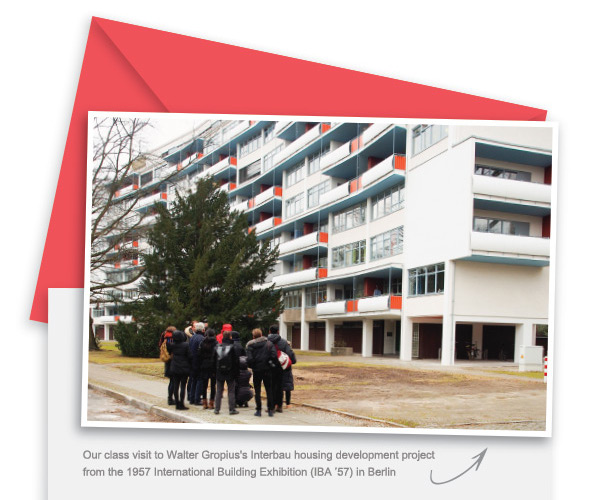
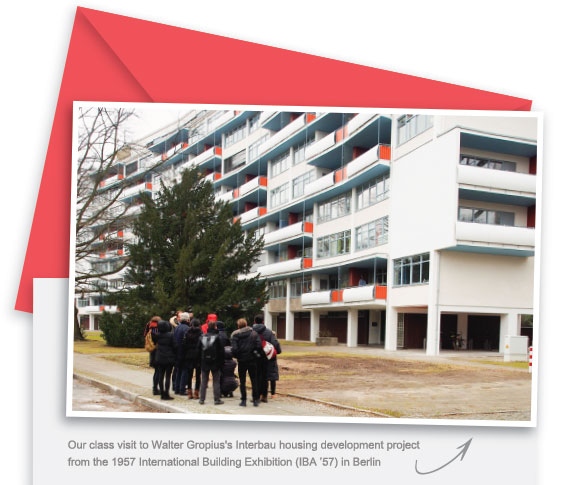
adjust widths, insert background images

diff --git a/index.html b/index.html
@@ -26,7 +26,7 @@
     .appleFooter a {color:#999999; text-decoration: none;}
 
     /* MOBILE STYLES */
-    @media screen and (max-width: 525px) {
+    @media screen and (max-width: 524px) {
 
         /* ALLOWS FOR FLUID TABLES */
         table[class="wrapper"]{
@@ -68,12 +68,10 @@
 
         td[class="padding-copy"]{
           padding: 10px 5% 10px 5% !important;
-          text-align: center;
         }
 
         td[class="padding-meta"]{
           padding: 30px 5% 0px 5% !important;
-          text-align: center;
         }
 
         td[class="no-pad"]{
@@ -106,7 +104,7 @@
             width:80% !important;
             padding: 15px !important;
             border: 0 !important;
-            font-size: 16px !important;
+            font-size: 15px !important;
         }
 
     }
@@ -116,24 +114,24 @@
 <body style="margin: 0; padding: 0;">
 
 <!-- LETTER -->
-<table border="0" cellpadding="0" cellspacing="0" width="870" style="margin: 0 auto; border: 1px solid #DDDDDD;">
+<table border="0" cellpadding="0" cellspacing="0" width="570" style="margin: 0 auto 20px auto;">
     <tr>
-        <td align="center" style="padding: 70px 15px 70px 15px;" class="section-padding">
-            <table border="0" cellpadding="0" cellspacing="0" width="500">
+        <td align="center" class="section-padding">
+            <table border="0" cellpadding="0" cellspacing="0">
                 <tr>
                     <td>
-                        <table width="780" border="0" cellspacing="0" cellpadding="0">
+                        <table width="570" border="0" cellspacing="0" cellpadding="0">
                           	<tr>
                               <td>
-                                  <img src="img/header.jpg" width="600" height="500" border="0" alt="Our class visit to Walter Gropius's Interbau housing development project from the 1957 International Building Exhibition (IBA ’57) in Berlin" style="display: block; padding: 0; color: #666666; text-decoration: none; font-family: Helvetica, arial, sans-serif; font-size: 16px; width: 600px; height: 500px;" class="img-max">
+                                  <img src="img/header.jpg" width="570" height="485" border="0" alt="Walter Gropius's Interbau housing development project in Berlin" style="display: block; padding: 0; color: #666666; text-decoration: none; font-family: Helvetica, arial, sans-serif; font-size: 15px; width: 570px; height: 485px;" class="img-max">
                               </td>
                             </tr>
                             <tr>
                                 <td>
                                     <!-- COPY -->
-                                    <table width="100%" border="0" cellspacing="0" cellpadding="0" bgcolor="#EEEEEE" style="border: 1px solid #DDDDDD">
+                                    <table width="100%" border="0" cellspacing="0" cellpadding="0" bgcolor="#EEEEEE" style="background-image: url('img/silver-bg.png'); background-repeat: repeat-y">
                                         <tr>
-                                            <td align="left" style="padding: 60px 60px 60px 60px; font-size: 16px; line-height: 28px; font-family: Helvetica, Arial, sans-serif; color: #666666;" class="padding-copy">
+                                            <td align="left" style="padding: 60px 60px 60px 60px; font-size: 15px; line-height: 26px; font-family: Helvetica, Arial, sans-serif; color: #666666;" class="padding-copy">
                                             	<p>Dear GSD Alumni,</p>
                                             	<p style="font-weight: bold">Greetings from Berlin!</p>
                                             	<p>This semester, nine classmates and I are participating in a studio
@@ -143,10 +141,10 @@
                                             </td>
                                         </tr>
                                         <tr>
-                                            <td align="right" style="padding: 60px 60px 60px 60px; font-size: 16px; line-height: 25px; font-family: Helvetica, Arial, sans-serif; color: #666666;" class="padding-copy">
-                                            	 <img src="img/soohoo-signature.jpg" width="400" height="112" border="0" alt="C. SooHoo signature" style="display: block; padding: 0; color: #666666; text-decoration: none; font-family: Helvetica, arial, sans-serif; font-size: 16px; width: 400px; height: 112px;" class="img-max">
+                                            <td align="right" style="padding: 60px 60px 60px 60px; font-size: 15px; line-height: 24px; font-family: Helvetica, Arial, sans-serif; color: #666666;" class="padding-copy">
+                                            	 <img src="img/soohoo-signature.jpg" width="250" height="70" border="0" alt="C. SooHoo signature" style="display: block; padding: 0; color: #666666; text-decoration: none; font-family: Helvetica, arial, sans-serif; font-size: 15px; width: 250px; height: 70px;" class="img-max">
                                             	<p>Christopher SooHoo</p> 
-                                        		<p>March ‘16</p>
+                                        		<p>MArch ‘16</p>
                                             </td>
                                         </tr>
                                     </table>
@@ -155,25 +153,33 @@
                         </table>
                     </td>
                 </tr>
+                <tr>
+                	<td width="570" height="11" style="background-image: url('img/silver-bg-bottom.png'); background-repeat: no-repeat;">
+                	</td>
+                </tr>
             </table>
         </td>
     </tr>
 </table> <!-- end letter section -->
 
 <!-- CALL TO ACTION -->
-<table border="0" cellpadding="0" cellspacing="0" width="870" style="margin: 0 auto; border: 1px solid #DDDDDD;">
+<table border="0" cellpadding="0" cellspacing="0" width="570" style="margin: 0 auto 0 auto;">
     <tr>
-        <td align="center" style="padding: 70px 15px 70px 15px;" class="section-padding">
+        <td align="center" class="section-padding">
             <table border="0" cellpadding="0" cellspacing="0">
+            	<tr>
+            		<td width="570" height="11" style="background-image: url('img/pink-bg-top.png'); background-repeat: no-repeat;">
+            		</td>
+            	</tr>
                 <tr>
                     <td>
-                        <table width="780" bgcolor="#f0525a" border="0" cellspacing="0" cellpadding="0" style="border: 1px solid #DDDDDD;">
+                        <table width="570" bgcolor="#f0525a" border="0" cellspacing="0" cellpadding="0" style="background-image: url('img/pink-bg.png'); background-repeat: repeat-y">
                             <tr>
                                 <td>
                                     <!-- COPY -->
                                     <table width="100%" border="0" cellspacing="0" cellpadding="0">
                                         <tr>
-                                            <td style="padding: 30px 60px 30px 60px; font-size: 16px; line-height: 25px; font-family: Helvetica, Arial, sans-serif; color: #FFFFFF;" class="padding-copy">
+                                            <td style="padding: 30px 60px 30px 60px; font-size: 15px; line-height: 24px; font-family: Helvetica, Arial, sans-serif; color: #FFFFFF;" class="padding-copy">
                                             	<p style="font-weight: bold">One of the most significant actions you can take as an alumnus of the Harvard Graduate School of Design is to support the education of the next generation of design leaders.</p>
                                             	<p>By making an annual donation to the GSD, you provide fellowship and research funds directly to students like Chris who pursue new methodologies and approaches to practice in communities around the globe. Join your fellow alumni today in making this commitment to our collective future.</p>
                                             </td>
@@ -185,7 +191,7 @@
                                             <td align="center" style="padding: 30px 60px 30px 60px;" class="padding-copy">
                                                 <table border="0" cellspacing="0" cellpadding="0" class="responsive-table">
                                                     <tr>
-                                                        <td align="center"><a href="http://alistapart.com/article/can-email-be-responsive/" target="_blank" style="font-size: 16px; font-family: Helvetica, Arial, sans-serif; font-weight: normal; text-transform: uppercase; color: #f0525a; text-decoration: none; background-color: #FFFFFF; padding: 15px; display: inline-block;" class="mobile-button">Make Your Gift</a></td>
+                                                        <td align="center"><a href="http://alistapart.com/article/can-email-be-responsive/" target="_blank" style="font-size: 15px; font-family: Helvetica, Arial, sans-serif; font-weight: normal; text-transform: uppercase; color: #f0525a; text-decoration: none; background-color: #FFFFFF; padding: 15px; display: inline-block;" class="mobile-button">Make Your Gift</a></td>
                                                     </tr>
                                                 </table>
                                             </td>
@@ -207,19 +213,19 @@
 </table> <!-- end call to action section -->
 
 <!-- SERT COUNCIL -->
-<table border="0" cellpadding="0" cellspacing="0" width="870" style="margin: 0 auto; border: 1px solid #DDDDDD;">
+<table border="0" cellpadding="0" cellspacing="0" width="570" style="margin: 0 auto 20px auto;">
     <tr>
-        <td align="center" style="padding: 70px 15px 70px 15px;" class="section-padding">
-            <table border="0" cellpadding="0" cellspacing="0" width="500">
+        <td align="center" class="section-padding">
+            <table border="0" cellpadding="0" cellspacing="0" width="570">
                 <tr>
                     <td>
-                        <table width="780" bgcolor="#444444" border="0" cellspacing="0" cellpadding="0" style="border: 1px solid #DDDDDD;">
+                        <table width="570" bgcolor="#444444" border="0" cellspacing="0" cellpadding="0" style="background-image: url('img/black-bg.png'); background-repeat: repeat-y">
                             <tr>
                                 <td>
                                     <!-- COPY -->
                                     <table width="100%" border="0" cellspacing="0" cellpadding="0">
                                         <tr>
-                                            <td style="padding: 30px 60px 30px 60px; font-size: 16px; line-height: 25px; font-family: Helvetica, Arial, sans-serif; color: #FFFFFF;" class="padding-copy">
+                                            <td style="padding: 30px 60px 30px 60px; font-size: 15px; line-height: 24px; font-family: Helvetica, Arial, sans-serif; color: #FFFFFF;" class="padding-copy">
                                             	Join the Josep Lluís Sert Council, our annual leadership giving society, with a donation of $1,000 or more. <a href="#" style="font-weight: bold; color: #FFFFFF">Read more about the Sert Council</a>
                                             </td>
                                         </tr>
@@ -230,6 +236,10 @@
                     </td>
                 </tr>
             </table>
+            <tr>
+            	<td width="570" height="11" style="background-image: url('img/black-bg-bottom.png'); background-repeat: no-repeat;">
+            	</td>
+            </tr>
         </td>
     </tr>
 </table> <!-- end sert council section -->
@@ -238,33 +248,33 @@
 <table border="0" cellpadding="0" cellspacing="0" width="100%" bgcolor="#f0525a">
     <tr>
         <td align="center" class="section-padding">
-            <table border="0" cellpadding="0" cellspacing="0" class="responsive-table" style="border: 1px solid #DDDDDD">
+            <table border="0" cellpadding="0" cellspacing="0" class="responsive-table">
                 <tr>
                     <td>
                         <!-- TWO COLUMNS -->
-                        <table cellspacing="0" cellpadding="0" border="0" width="100%">
+                        <table cellspacing="0" cellpadding="0" border="0" width="564">
                             <tr>
-                                <td valign="top" style="padding: 0;" class="mobile-wrapper">
+                                <td valign="top" style="padding: 0 0 0 35px;" class="mobile-wrapper">
                                     <!-- LEFT COLUMN -->
-                                    <table cellpadding="0" cellspacing="0" border="0" width="56%" align="left" class="responsive-table">
+                                    <table cellpadding="0" cellspacing="0" border="0" width="310px" align="left" class="responsive-table">
                                         <tr>
                                             <td style="padding: 20px 0 40px 0;">
                                                 <table cellpadding="0" cellspacing="0" border="0" width="100%">
                                                     <tr>
-                                                        <td style="padding: 5px 0 0 0; font-family: Arial, sans-serif; color: #FFFFFF; font-size: 18px; line-height: 20px;"><span class="appleBody">Thank you if you have already made your gift &#8211; we value your support.</td>
+                                                        <td style="padding: 5px 0 0 0; font-family: Arial, sans-serif; color: #FFFFFF; font-size: 18px; line-height: 24px;"><span class="appleBody">Thank you if you have already made your gift &#8211; we value your support.</td>
                                                     </tr>
                                                 </table>
                                             </td>
                                         </tr>
                                     </table>
                                     <!-- RIGHT COLUMN -->
-                                    <table cellpadding="0" cellspacing="0" border="0" width="36%" align="right" class="responsive-table">
+                                    <table cellpadding="0" cellspacing="0" border="0" align="right" class="responsive-table">
                                         <tr>
                                             <td style="padding: 20px 0 40px 0;">
                                                 <table cellpadding="0" cellspacing="0" border="0" width="100%">
                                                     <tr>
-                                                        <td align="center" bgcolor="#ffffff" valign="middle">
-                                                        	<a href="http://www.groundedvisionaries.org/" target="_blank"><img src="img/gv-logo.png" width="218" height="70" style="display: block; color: #666666; font-family: Helvetica, arial, sans-serif; font-size: 13px; width: 218px; height: 70px;" alt="Grounded Visionaries" border="0" class="img-max"></a>
+                                                        <td align="center" bgcolor="#f0525a" valign="middle">
+                                                        	<a href="http://www.groundedvisionaries.org/" target="_blank"><img src="img/gv-logo.png" width="218" height="70" style="display: block; color: #FFFFFF; font-family: Helvetica, arial, sans-serif; font-size: 13px; width: 218px; height: 70px;" alt="Grounded Visionaries" border="0" class="img-max"></a>
                                                         </td>
                                                     </tr>
                                                 </table>
